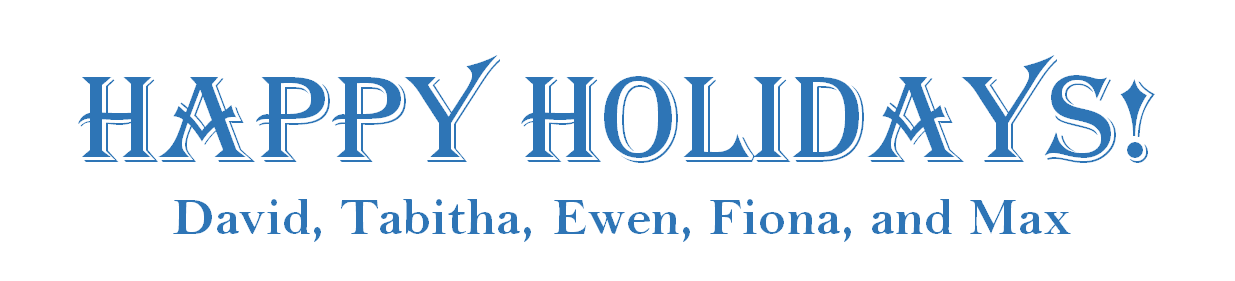
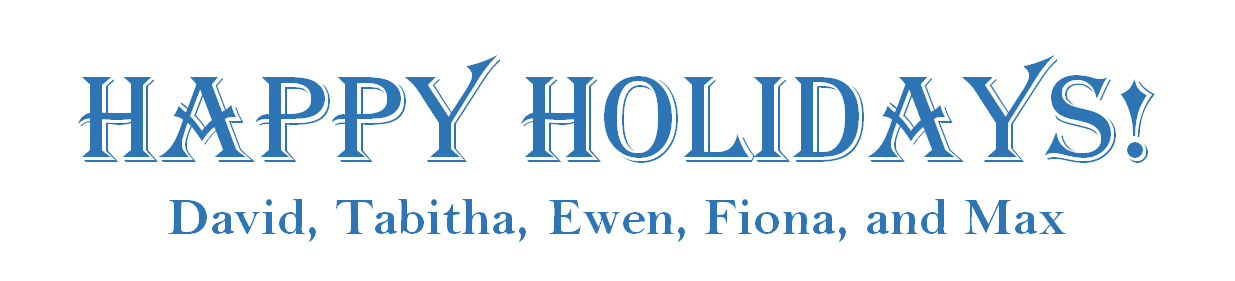
Maxmas

Changed region(s): [[0.1231, 0.7117, 0.8615, 0.8541]]

diff --git a/index.html b/index.html
@@ -24,7 +24,7 @@
       fill: url(#backgroundGradient);
     }
 
-    .banner {
+    .banner, .bannerMax {
       pointer-events: none;
     }
   </style>
@@ -53,6 +53,7 @@
         </defs>
         <rect class="background"></rect>        
         <image class="banner" href="images/banner.png" width="100%" />
+        <image class="bannerMax" href="images/banner_max.png" width="100%" style="visibility: hidden;" />
         <g class="snowflakes"></g>
       </svg>
     </div>
@@ -74,13 +75,40 @@ let frame = 0;
 let maximumOverdrive = false;
 let maxImage = "images/Max_small.png";
 
+const maxifyOn = () => {
+  const svg = d3.select("#card");
+
+  svg.selectAll(".snowflake").select(".image")
+      .attr("href", maxImage);
+
+  svg.select(".banner")
+      .style("visibility", "hidden");
+
+  svg.select(".bannerMax")
+      .style("visibility", "visible");
+
+  maximumOverdrive = true;
+};
+
+const maxifyOff = () => {
+  const svg = d3.select("#card");
+
+  svg.selectAll(".snowflake").select(".image")
+      .attr("href",  d => d.image);
+
+  svg.select(".banner")
+      .style("visibility", "visible");
+
+  svg.select(".bannerMax")
+      .style("visibility", "hidden");
+
+  maximumOverdrive = false;
+};
+
 d3.select("#card").select(".background")
     .on("click", () => {
       if (!selected && maximumOverdrive) {                
-        d3.select("#card").selectAll(".snowflake").select(".image")
-            .attr("href", d => d.image);
-
-        maximumOverdrive = false;
+        maxifyOff();
       }
 
       selected = null;
@@ -144,19 +172,13 @@ function drawSnowflakes() {
               }
               else {
                 if (maximumOverdrive) {                
-                  svg.selectAll(".snowflake").select(".image")
-                      .attr("href", d => d.image);
-
-                  maximumOverdrive = false;
+                  maxifyOff();
                 }
                 else {                  
                   selected = d;
 
                   if (d.image === maxImage && !maximumOverdrive) {
-                    svg.selectAll(".snowflake").select(".image")
-                        .attr("href", maxImage);
-
-                    maximumOverdrive = true;
+                    maxifyOn();
                   }
                 }
               }
